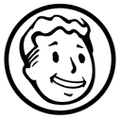
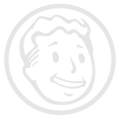
fix background img on cards

diff --git a/frontend/src/components/site/cards/style.module.css b/frontend/src/components/site/cards/style.module.css
@@ -37,22 +37,13 @@
     flex-grow: 1;
     width: 100%;
     min-height: fit-content;
-    position: relative;
 
-    font-size: medium;
-}
-
-/* pseudo elemento */
-.card_body::after {
-    content: '';
-    position: absolute;
-    /* é a distância do parente (card_body) */
-    inset: 0;
     background-image: url('/vault_boy.png');
     background-size: contain;
     background-repeat: no-repeat;
     background-position: center;
-    opacity: 0.05;
+
+    font-size: medium;
 }
 
 .card_text {
